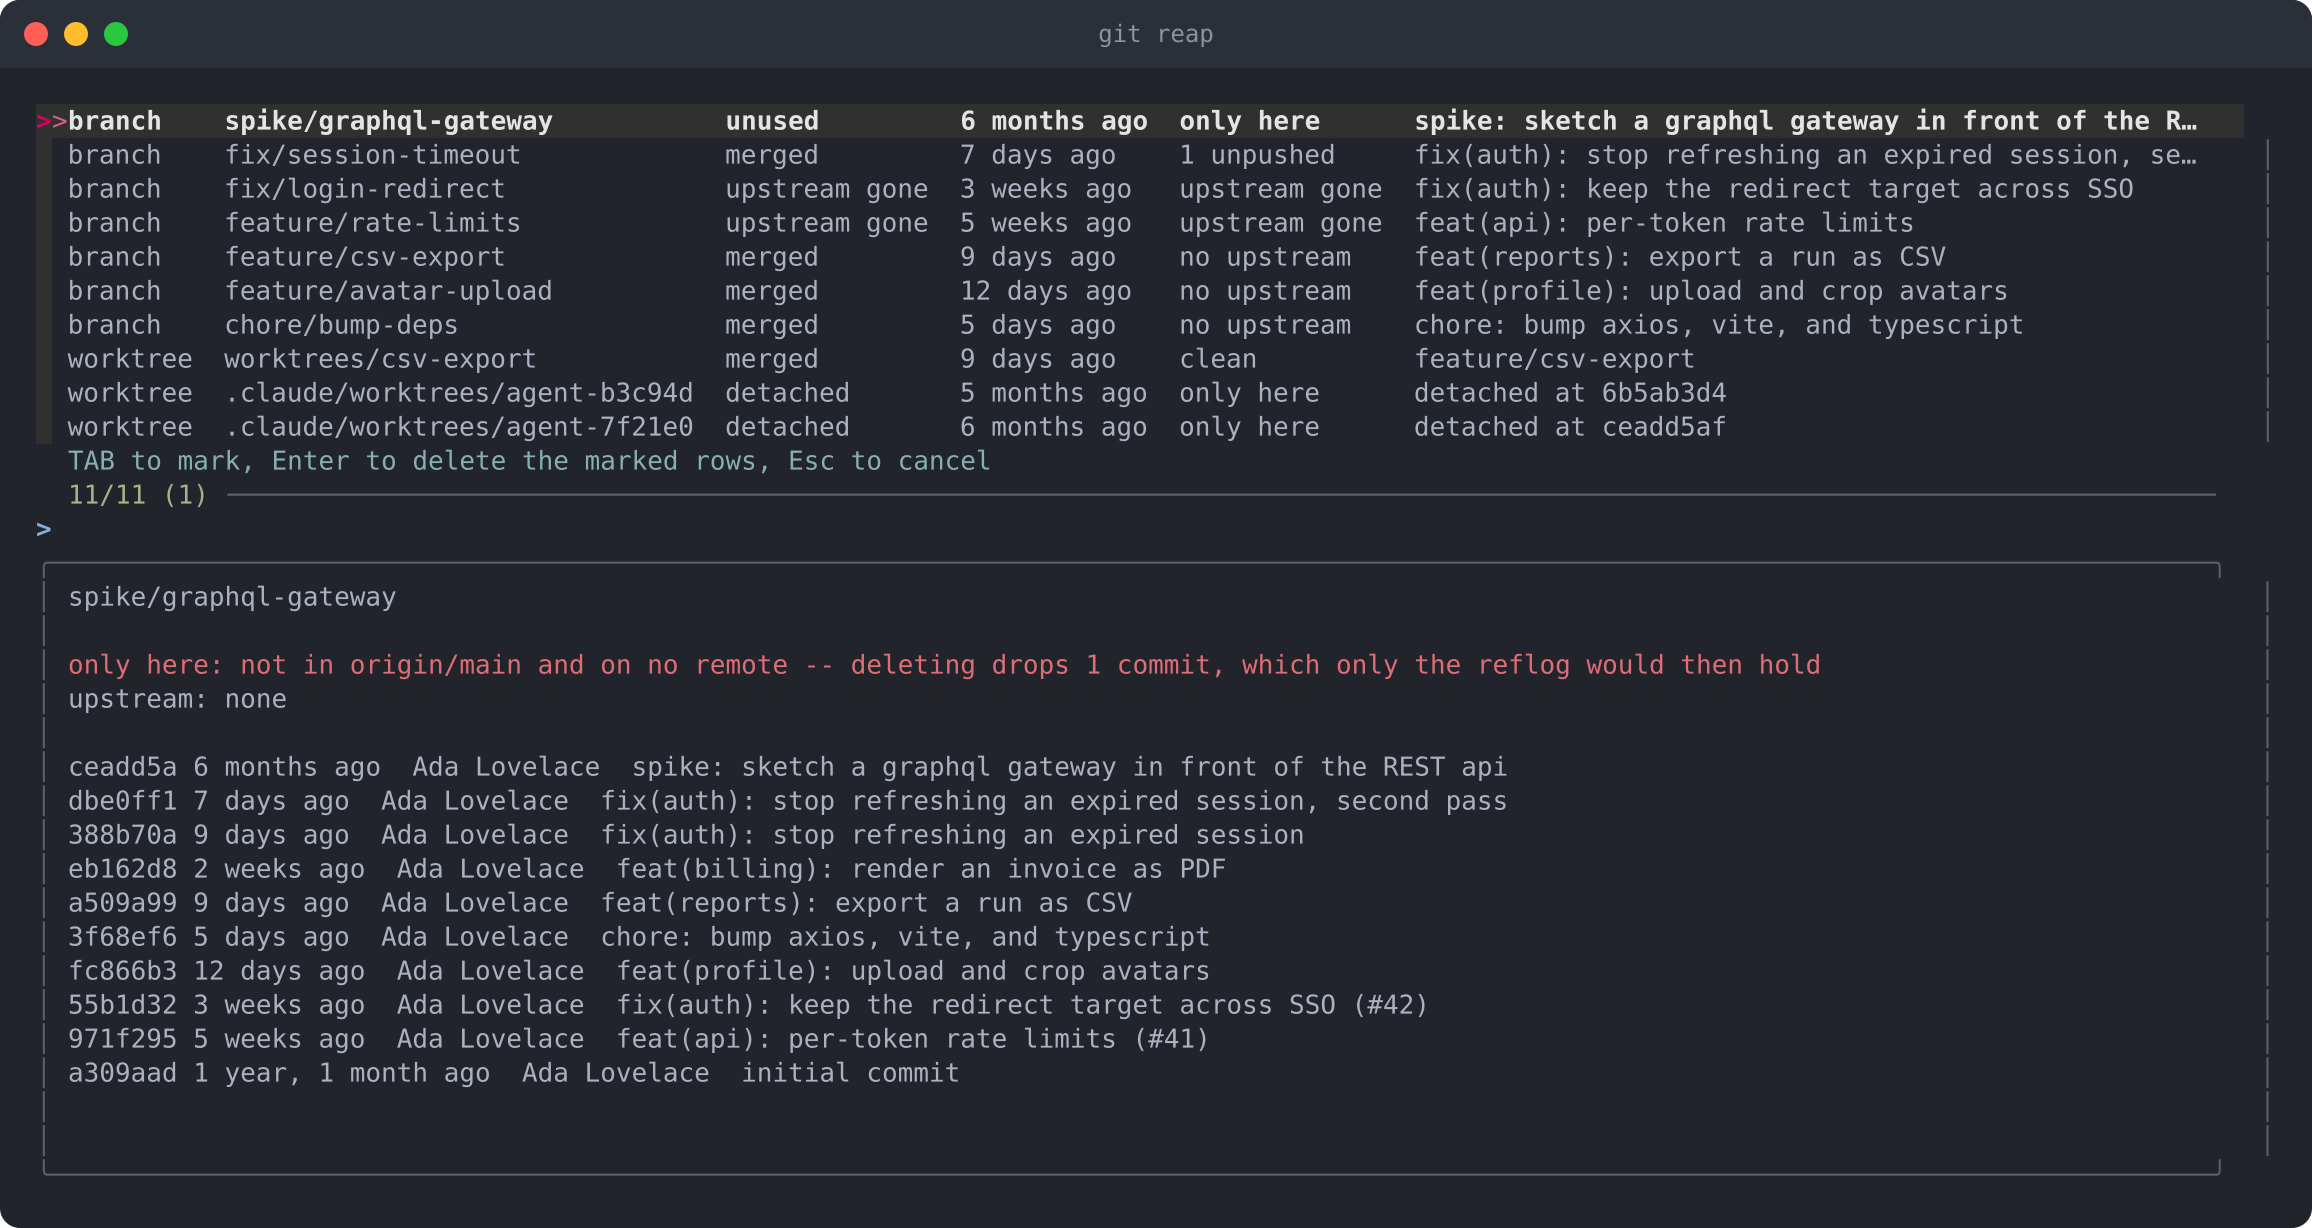
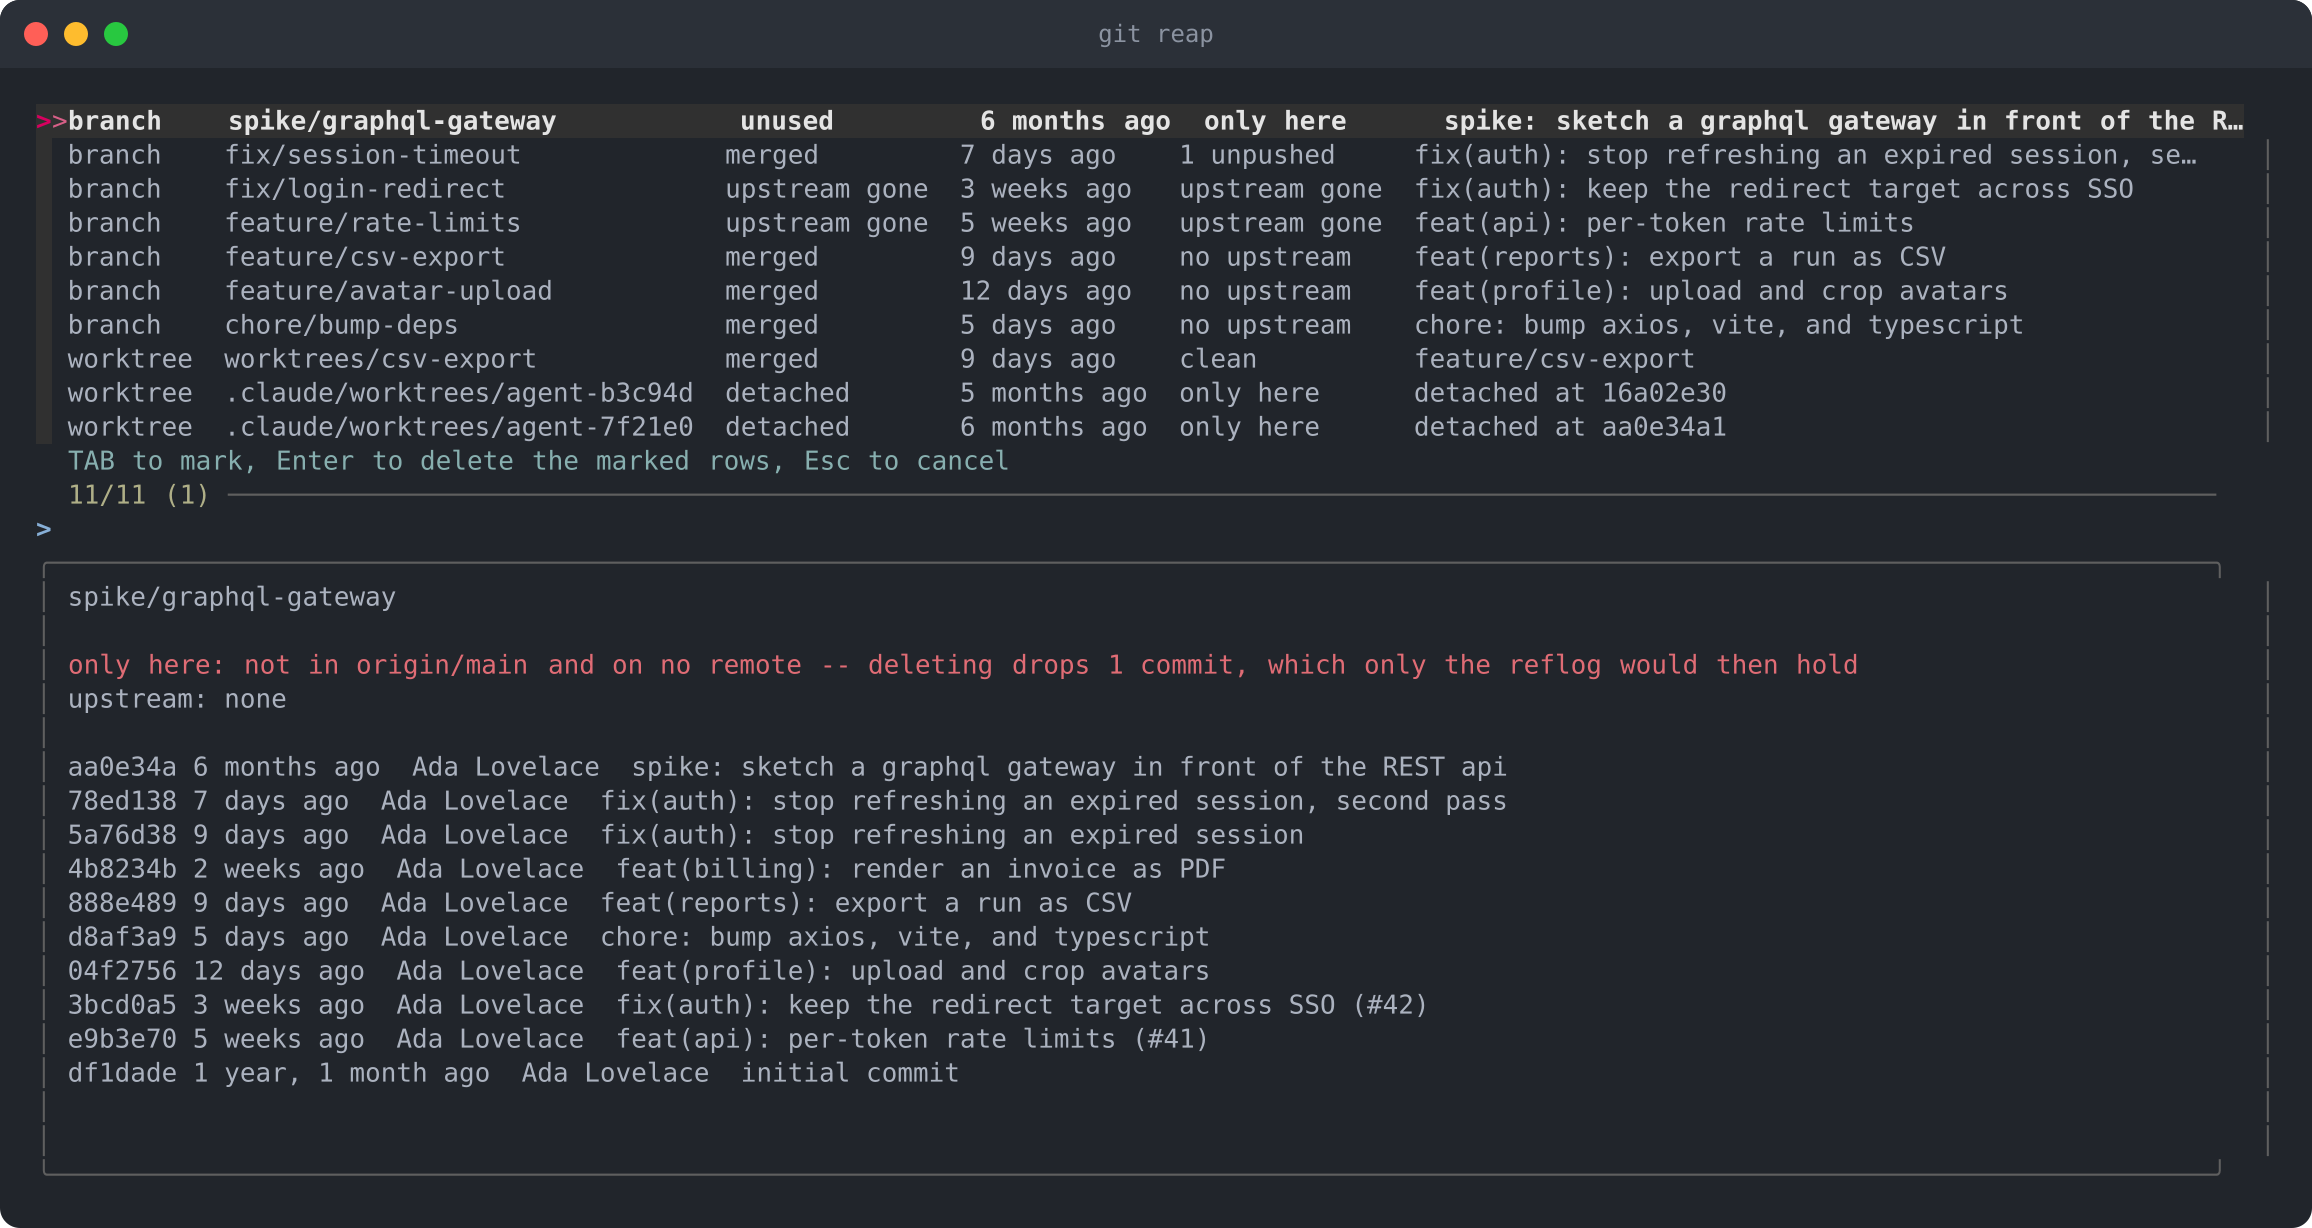
Make redrawing the screenshots repeatable, and write down when to do it
The screenshots are generated, but nothing said when they had to be
regenerated, and nothing made regenerating them cheap enough to do on
spec. Both are fixed here, and the rule is written down in AGENTS.md
rather than enforced by a pre-commit hook: a hook would have spent five
seconds and a megabyte of new PNG on every commit that moved no pixel.

A redraw is now idempotent. The demo repository dated its commits against
the current second, so every run hashed different commits and produced
different files -- `make screenshot` always dirtied docs/, whether or not
anything had changed, which is exactly what stops anyone running it to
check. Dating against the current UTC day instead makes two runs on the
same day byte-identical, and git truncates when it renders an age too, so
nothing on screen moves within the day. The clock stays tied to today
rather than frozen at a constant, because `unused` means "no commit in
the last 90 days" measured against the real clock: freeze it far enough
back and feature/billing-portal goes idle and starts being offered;
freeze it forward and nothing is ever stale, so the detached worktrees
and both spikes stop being offered at all -- spike/graphql-gateway among
them, which is the entire subject of docs/screenshot-warning.png.

That left one source of drift. fzf repaints its preview border
asynchronously, and the blank cell beside it ends up carrying the
border's colour or the pane's depending on when the capture stopped
[…]

diff --git a/scripts/capture.py b/scripts/capture.py
@@ -105,11 +105,24 @@ def capture(command, cwd):
 
 
 def runs(line):
-    """Split one screen row into (start, end, style, text) runs of one style."""
+    """Split one screen row into (start, end, style, text) runs of one style.
+
+    A blank cell shows its background and nothing else, so its foreground is
+    collapsed to the default before the comparison. That is not a cosmetic
+    nicety: fzf repaints its preview border asynchronously, and the blank beside
+    it ends up carrying the border's colour or the pane's depending on when the
+    capture stopped reading. Splitting on a colour nobody can see made the same
+    screen draw two different pictures, which is the one thing this has to not
+    do. Under reverse video the foreground is the background, so that case keeps
+    every attribute it has.
+    """
     start, style, text = 0, None, ""
     for column in range(COLUMNS):
         cell = line[column]
-        here = (cell.fg, cell.bg, cell.bold, cell.reverse)
+        if (cell.data or " ") == " " and not cell.reverse:
+            here = ("default", cell.bg, False, False)
+        else:
+            here = (cell.fg, cell.bg, cell.bold, cell.reverse)
         if here != style:
             if style is not None:
                 yield start, column, style, text

diff --git a/AGENTS.md b/AGENTS.md
@@ -1,0 +1,81 @@
+# Working in this repository
+
+`git reap` deletes branches that are finished with, and the worktrees sitting on
+them. Go, standard library only, with `fzf` shelled out to for the picker.
+
+## The gate
+
+```sh
+make check
+```
+
+gofmt, `go vet`, and the tests. CI runs that target rather than its own copy of
+the steps, so passing it here is passing it there. Run it before calling
+anything done.
+
+## docs/*.png are generated
+
+`docs/screenshot.png` and `docs/screenshot-warning.png` are photographs of the
+real picker running against a real repository. Never edit them by hand, and
+never describe them as mockups. Redraw with:
+
+```sh
+make screenshot
+```
+
+**Redraw in the same commit as any change to what the picker puts on screen** —
+a column, a reason string, a preview line, the row order, or
+`scripts/demo-repo.sh`. A change that cannot move a pixel — tests, comments, the
+README — needs no redraw, and nothing in the repository will stop you shipping a
+stale picture, so this is on you.
+
+Redrawing when unsure is free. The demo repository dates its commits against the
+current UTC day rather than the current second, so a redraw with nothing behind
+it produces identical bytes and leaves `git status` empty. If `docs/` comes back
+modified, the picture genuinely changed.
+
+Redraw **in the devcontainer**. It pins `fzf` to the version Debian stable
+ships; a newer `fzf` draws its cursor and marker with different glyphs, which
+lands in the diff as a visual change having nothing to do with your work.
+
+## The README quotes real output
+
+Three fenced blocks in `README.md` are pasted from actual runs, and they drift
+silently when behaviour changes. After touching flags, columns, reason strings,
+or `--debug`, check them against a real run:
+
+```sh
+make demo
+cd /tmp/git-reap-demo/checkout-service
+<repo>/git-reap --help
+<repo>/git-reap --no-fetch --dry-run --all
+<repo>/git-reap --no-fetch --debug
+```
+
+- the `usage:` block matches `--help` exactly;
+- the `--dry-run` block matches `--dry-run --all`, including the trailing
+  `N rows are "only here"` count, which is easy to leave behind;
+- the `--debug` block is an abridgement, keeping a few rows of each table. The
+  commit hashes in it are deliberately stale — they rehash every day — but the
+  ages and the outcomes are not.
+
+## The demo repository is load-bearing
+
+Every branch and worktree in `scripts/demo-repo.sh` exists to exercise one rule,
+and several exist in order to be *passed over*: `feature/billing-portal` is too
+recent to qualify, `worktrees/invoice-pdf` is dirty and pins its branch,
+`.claude/worktrees/agent-e5a018` was used too recently. `spike/graphql-gateway`
+is the entire subject of the warning screenshot. Dropping or re-aging one
+quietly deletes a case from the screenshots and the README both.
+
+Its clock is tied to today on purpose. `unused` means "no commit in the last 90
+days", measured against the real clock when `git reap` runs — so freezing the
+demo at a fixed date changes which rows are offered at all, and a date far
+enough ahead offers no idle branches and no detached worktrees whatsoever.
+
+## Style
+
+Comments here carry their reasoning, often at length, and are expected to: the
+interesting part of a decision is why it went that way and what it would break
+to undo. Match the density of the file you are in rather than trimming to the
+usual sparseness.

diff --git a/README.md b/README.md
@@ -257,9 +257,10 @@ which is what most abandoned work actually looks like.
 ## Development
 
 ```sh
-make check    # gofmt, vet, and tests -- exactly what CI runs
-make          # list every target
-make demo     # a repository with one of everything, to try the picker against
+make check       # gofmt, vet, and tests -- exactly what CI runs
+make             # list every target
+make demo        # a repository with one of everything, to try the picker against
+make screenshot  # redraw docs/*.png
 ```
 
 `make check` is the whole gate: CI runs that target rather than its own copy of
@@ -275,18 +276,32 @@ door standing in for the remote, so the fetch is real but offline.
 The screenshots above are not mockups, and they are not hand-maintained:
 
 ```sh
-scripts/screenshot.sh
+make screenshot
 ```
 
 builds the binary, builds a demo repository with something of each kind left
 lying around in it (`scripts/demo-repo.sh`), and runs the real picker against
 that in a pty twice, drawing each screen it left behind (`scripts/capture.py`)
-into `docs/screenshot.png` and `docs/screenshot-warning.png`. Commit dates in
-the demo are relative to today, so the ages hold still between runs; the
-hashes move, because they hash those dates. Needs `fzf`, `rsvg-convert`, and
-`python3` with [pyte](https://pypi.org/project/pyte/).
+into `docs/screenshot.png` and `docs/screenshot-warning.png`. Needs `fzf`,
+`rsvg-convert`, and `python3` with [pyte](https://pypi.org/project/pyte/).
 
-Rather than installing those, open the repository in a Dev Containers-capable
+Redraw them in the same commit as anything that changes what the picker puts on
+screen — a column, a reason, a preview line, or the demo repository itself.
+Nothing enforces that, deliberately: a hook that redrew on every commit would
+spend five seconds and a megabyte of PNG on commits that moved no pixel.
+`AGENTS.md` states the rule for anyone, human or otherwise, working here.
+
+Running it when you are unsure is free, though, because a redraw is
+reproducible. The demo repository dates its commits against the current UTC day
+rather than the current second, so two redraws on the same day produce identical
+bytes and `git status` stays empty unless the picture really moved. The ages
+hold still because they are measured from today — freeze that clock at a fixed
+date and the demo stops meaning what it says, since `unused` is "no commit in 90
+days" measured against the real one, and a demo dated far enough ahead offers no
+idle branches at all. The hashes do move when the day rolls over, because they
+hash those dates.
+
+Rather than installing the tools, open the repository in a Dev Containers-capable
 editor and let `.devcontainer/` supply them. It pins them to what Debian
 stable ships, so the picture does not drift when `fzf` cuts a release, and it
 installs a monospace font for `rsvg-convert` to draw with — without one the
